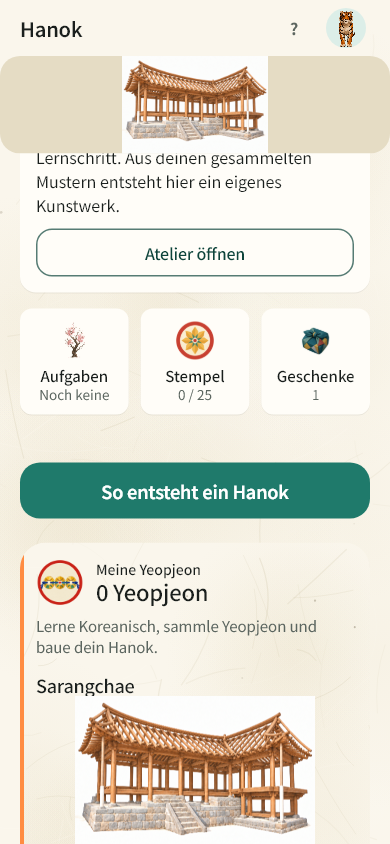
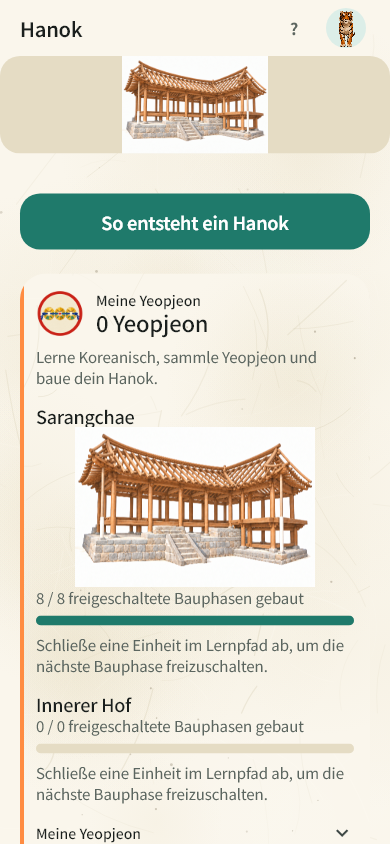
fix(dancheong): preserve Hanok fold and shared UI contracts

diff --git a/lib/features/dancheong/dancheong_screens.dart b/lib/features/dancheong/dancheong_screens.dart
@@ -8,6 +8,8 @@ import '../../screens/dojangcheop_screen.dart';
 import '../../services/storage_service.dart';
 import '../../widgets/sori/button.dart';
 import '../../widgets/sori/card.dart';
+import '../../widgets/sori/dialog.dart';
+import '../../widgets/sori/toast.dart';
 import '../../widgets/sori/cultural_help.dart';
 import '../../widgets/sori/dancheong_stamp.dart';
 import '../../widgets/sori/standard_page.dart';
@@ -80,13 +82,13 @@ Widget _failure(BuildContext context, Object? error, DancheongStore store) {
             : t.dancheongBlocked,
       ),
       if (damaged)
-        TextButton(
-          onPressed: () async {
+        SoriButton.ghost(
+          onTap: () async {
             await Clipboard.setData(
               ClipboardData(text: Storage.dancheongStudioRawJson),
             );
           },
-          child: Text(t.dancheongExportData),
+          label: t.dancheongExportData,
         ),
     ],
   );
@@ -116,9 +118,9 @@ class _StudioState extends State<DancheongStudioScreen> {
     }
     final t = AppL10n.of(context);
     final guard = store.captureGuard();
-    final confirmed = await showDialog<bool>(
+    final confirmed = await showSoriDialog<bool>(
       context: context,
-      builder: (context) => AlertDialog(
+      builder: (context) => SoriDialog(
         title: Text(t.dancheongDelete),
         content: Text(
           art == null
@@ -126,13 +128,13 @@ class _StudioState extends State<DancheongStudioScreen> {
               : t.dancheongDeleteArtworkNote,
         ),
         actions: [
-          TextButton(
-            onPressed: () => Navigator.of(context).pop(false),
-            child: Text(t.dancheongPublicCancel),
+          SoriButton.ghost(
+            onTap: () => Navigator.of(context).pop(false),
+            label: t.dancheongPublicCancel,
           ),
-          TextButton(
-            onPressed: () => Navigator.of(context).pop(true),
-            child: Text(t.dancheongDelete),
+          SoriButton.ghost(
+            onTap: () => Navigator.of(context).pop(true),
+            label: t.dancheongDelete,
           ),
         ],
       ),
@@ -156,9 +158,7 @@ class _StudioState extends State<DancheongStudioScreen> {
       }
     } catch (_) {
       if (mounted) {
-        ScaffoldMessenger.of(
-          context,
-        ).showSnackBar(SnackBar(content: Text(t.dancheongError)));
+        soriToast(context, t.dancheongError);
       }
     } finally {
       if (mounted) {
@@ -240,18 +240,17 @@ class _StudioState extends State<DancheongStudioScreen> {
               ),
               if (owner!.drafts.length >= 30) ...[
                 Text(t.dancheongCapacity),
-                TextButton(
-                  onPressed: () =>
-                      setState(() => tab = DancheongStudioTab.artwork),
-                  child: Text(t.dancheongManage),
+                SoriButton.ghost(
+                  onTap: () => setState(() => tab = DancheongStudioTab.artwork),
+                  label: t.dancheongManage,
                 ),
               ],
               if (_owned().isEmpty) ...[
                 const SizedBox(height: Spacing.sm),
                 Text(t.dancheongFirstMaterial),
-                TextButton(
-                  onPressed: () => Navigator.of(context).pushNamed('/path'),
-                  child: Text(t.dancheongLearn),
+                SoriButton.ghost(
+                  onTap: () => Navigator.of(context).pushNamed('/path'),
+                  label: t.dancheongLearn,
                 ),
               ],
               const SizedBox(height: Spacing.lg),
@@ -293,12 +292,10 @@ class _StudioState extends State<DancheongStudioScreen> {
                           arguments: DancheongEditorArgs(draftId: draft.id),
                         ),
                       ),
-                      TextButton(
+                      SoriButton.ghost(
                         key: ValueKey('delete-draft-${draft.id}'),
-                        onPressed: deleting
-                            ? null
-                            : () => _delete(draft: draft),
-                        child: Text(t.dancheongDelete),
+                        onTap: deleting ? null : () => _delete(draft: draft),
+                        label: t.dancheongDelete,
                       ),
                     ],
                   ),
@@ -331,9 +328,9 @@ class _StudioState extends State<DancheongStudioScreen> {
                           ),
                         ),
                       ),
-                      TextButton(
-                        onPressed: deleting ? null : () => _delete(art: art),
-                        child: Text(t.dancheongDelete),
+                      SoriButton.ghost(
+                        onTap: deleting ? null : () => _delete(art: art),
+                        label: t.dancheongDelete,
                       ),
                     ],
                   ),
@@ -421,19 +418,19 @@ class _EditorState extends State<DancheongEditorScreen>
     if (mounted && !saved) {
       final t = AppL10n.of(context);
       saved =
-          await showDialog<bool>(
+          await showSoriDialog<bool>(
             context: context,
-            builder: (context) => AlertDialog(
+            builder: (context) => SoriDialog(
               title: Text(t.dancheongLeaveTitle),
               content: Text(t.dancheongLeaveNote),
               actions: [
-                TextButton(
-                  onPressed: () => Navigator.of(context).pop(false),
-                  child: Text(t.dancheongPublicCancel),
+                SoriButton.ghost(
+                  onTap: () => Navigator.of(context).pop(false),
+                  label: t.dancheongPublicCancel,
                 ),
-                TextButton(
-                  onPressed: () => Navigator.of(context).pop(true),
-                  child: Text(t.dancheongLeave),
+                SoriButton.ghost(
+                  onTap: () => Navigator.of(context).pop(true),
+                  label: t.dancheongLeave,
                 ),
               ],
             ),
@@ -587,9 +584,7 @@ class _EditorState extends State<DancheongEditorScreen>
                               final slugs = [...composition.motifSlugs];
                               if (selected) {
                                 if (slugs.length >= 4) {
-                                  ScaffoldMessenger.of(context).showSnackBar(
-                                    SnackBar(content: Text(t.dancheongLimit)),
-                                  );
+                                  soriToast(context, t.dancheongLimit);
                                   return;
                                 }
                                 slugs.add(motif.name);
@@ -944,9 +939,9 @@ class _ShareState extends State<DancheongShareScreen>
       if (!mounted) {
         return;
       }
-      final approved = await showDialog<bool>(
+      final approved = await showSoriDialog<bool>(
         context: context,
-        builder: (context) => AlertDialog(
+        builder: (context) => SoriDialog(
           title: Text(t.dancheongPublicTitle),
           content: SingleChildScrollView(
             child: Column(
@@ -962,13 +957,13 @@ class _ShareState extends State<DancheongShareScreen>
             ),
           ),
           actions: [
-            TextButton(
-              onPressed: () => Navigator.pop(context, false),
-              child: Text(t.dancheongPublicCancel),
+            SoriButton.ghost(
+              onTap: () => Navigator.pop(context, false),
+              label: t.dancheongPublicCancel,
             ),
-            TextButton(
-              onPressed: () => Navigator.pop(context, true),
-              child: Text(t.dancheongPublicConfirm),
+            SoriButton.ghost(
+              onTap: () => Navigator.pop(context, true),
+              label: t.dancheongPublicConfirm,
             ),
           ],
         ),

diff --git a/lib/features/dancheong/dancheong_connections.dart b/lib/features/dancheong/dancheong_connections.dart
@@ -26,9 +26,11 @@ class DancheongEntryCard extends StatelessWidget {
     super.key,
     required this.store,
     required this.onOpen,
+    this.compact = false,
   });
   final DancheongStore store;
   final VoidCallback onOpen;
+  final bool compact;
   @override
   Widget build(BuildContext context) => AnimatedBuilder(
     animation: store.changes,
@@ -39,6 +41,46 @@ class DancheongEntryCard extends StatelessWidget {
         newest = store.currentOwner().artworks.lastOrNull;
       } catch (_) {
         return const SizedBox.shrink();
+      }
+      if (compact) {
+        return SoriCard(
+          key: const ValueKey('hanok-dancheong-entry'),
+          padding: const EdgeInsets.all(Spacing.sm),
+          onTap: onOpen,
+          semanticLabel: '${t.dancheongEntry}. ${t.dancheongEntryAction}',
+          child: Row(
+            children: [
+              SizedBox(
+                width: 48,
+                height: 60,
+                child: newest == null
+                    ? Image.asset(
+                        dancheongExamplePatternAsset,
+                        fit: BoxFit.contain,
+                        semanticLabel: t.dancheongExamples,
+                      )
+                    : DancheongArtworkView(
+                        composition: newest.composition,
+                        ownedSlugs: knownOwnedMotifs(Storage.earnedStamps),
+                      ),
+              ),
+              const SizedBox(width: Spacing.md),
+              Expanded(
+                child: Column(
+                  crossAxisAlignment: CrossAxisAlignment.start,
+                  children: [
+                    Text(t.dancheongEntry, style: SoriTextTheme.of(context).h3),
+                    Text(
+                      t.dancheongEntryAction,
+                      style: SoriTextTheme.of(context).meta,
+                    ),
+                  ],
+                ),
+              ),
+              const Icon(Icons.chevron_right),
+            ],
+          ),
+        );
       }
       return SoriCard(
         key: const ValueKey('hanok-dancheong-entry'),

diff --git a/lib/features/dancheong/dancheong_renderer.dart b/lib/features/dancheong/dancheong_renderer.dart
@@ -8,6 +8,8 @@ import 'package:flutter/services.dart';
 
 import '../../l10n/generated/app_localizations.dart';
 import '../../widgets/sori/dancheong_stamp.dart';
+import '../../widgets/sori/button.dart';
+import '../../widgets/sori/tokens.dart';
 import 'dancheong_catalog.dart';
 import 'dancheong_models.dart';
 
@@ -383,7 +385,7 @@ class _CompositionPainter {
       return TextPainter(
         text: TextSpan(
           style: TextStyle(
-            fontFamily: 'NotoSansKR',
+            fontFamily: SoriFonts.korean,
             fontSize: font,
             height: 1.35,
             color: const Color(0xFF243B33),
@@ -495,16 +497,16 @@ class _DancheongArtworkViewState extends State<DancheongArtworkView> {
             return Center(child: Text(AppL10n.of(context).dancheongTextFit));
           }
           return Center(
-            child: TextButton(
-              onPressed: () => setState(_load),
-              child: Text(AppL10n.of(context).btnRetry),
+            child: SoriButton.ghost(
+              onTap: () => setState(_load),
+              label: AppL10n.of(context).btnRetry,
             ),
           );
         }
         return Center(
           child: _future == null
               ? const Icon(Icons.palette_outlined, size: 48)
-              : const CircularProgressIndicator(),
+              : Text(AppL10n.of(context).gameLoading),
         );
       },
     ),

diff --git a/test/sori_stage_hanok_shortcuts_test.dart b/test/sori_stage_hanok_shortcuts_test.dart
@@ -212,6 +212,12 @@ void main() {
       240,
       scrollable: find.byType(Scrollable).first,
     );
+    // A lazily built history chip may still lie below the viewport edge after
+    // scrollUntilVisible stops; the new atelier entry must remain scrollable.
+    await tester.ensureVisible(
+      find.byKey(const ValueKey('sarangchae-stage-choice-5')),
+    );
+    await tester.pumpAndSettle();
     await tester.tap(find.byKey(const ValueKey('sarangchae-stage-choice-5')));
     await tester.pumpAndSettle();
 

diff --git a/lib/screens/sori_stage/sori_stage_hanok_screen.dart b/lib/screens/sori_stage/sori_stage_hanok_screen.dart
@@ -214,6 +214,7 @@ class _SoriStageHanokScreenState extends State<SoriStageHanokScreen> {
                             const SizedBox(height: Spacing.lg),
                             DancheongEntryCard(
                               store: DancheongStore(),
+                              compact: true,
                               onOpen: () => _openShortcut('/dancheong-studio'),
                             ),
                             const SizedBox(height: Spacing.lg),

diff --git a/lib/features/dancheong/dancheong_visitor_entry.dart b/lib/features/dancheong/dancheong_visitor_entry.dart
@@ -106,7 +106,9 @@ class _VisitorGateState extends State<DancheongVisitorGate> {
         );
       }
       if (!snapshot.hasData) {
-        return const Scaffold(body: Center(child: CircularProgressIndicator()));
+        return Scaffold(
+          body: Center(child: Text(AppL10n.of(context).gameLoading)),
+        );
       }
       if (snapshot.data!.entry == FirstRunEntry.appShell &&
           widget.entry != null) {

diff --git a/test/dancheong/dancheong_review_regression_test.dart b/test/dancheong/dancheong_review_regression_test.dart
@@ -181,7 +181,7 @@ void main() {
     await tester.tap(
       find.descendant(
         of: find.byType(AlertDialog),
-        matching: find.widgetWithText(TextButton, 'Delete'),
+        matching: find.widgetWithText(SoriButton, 'Delete'),
       ),
     );
     await tester.pumpAndSettle();
